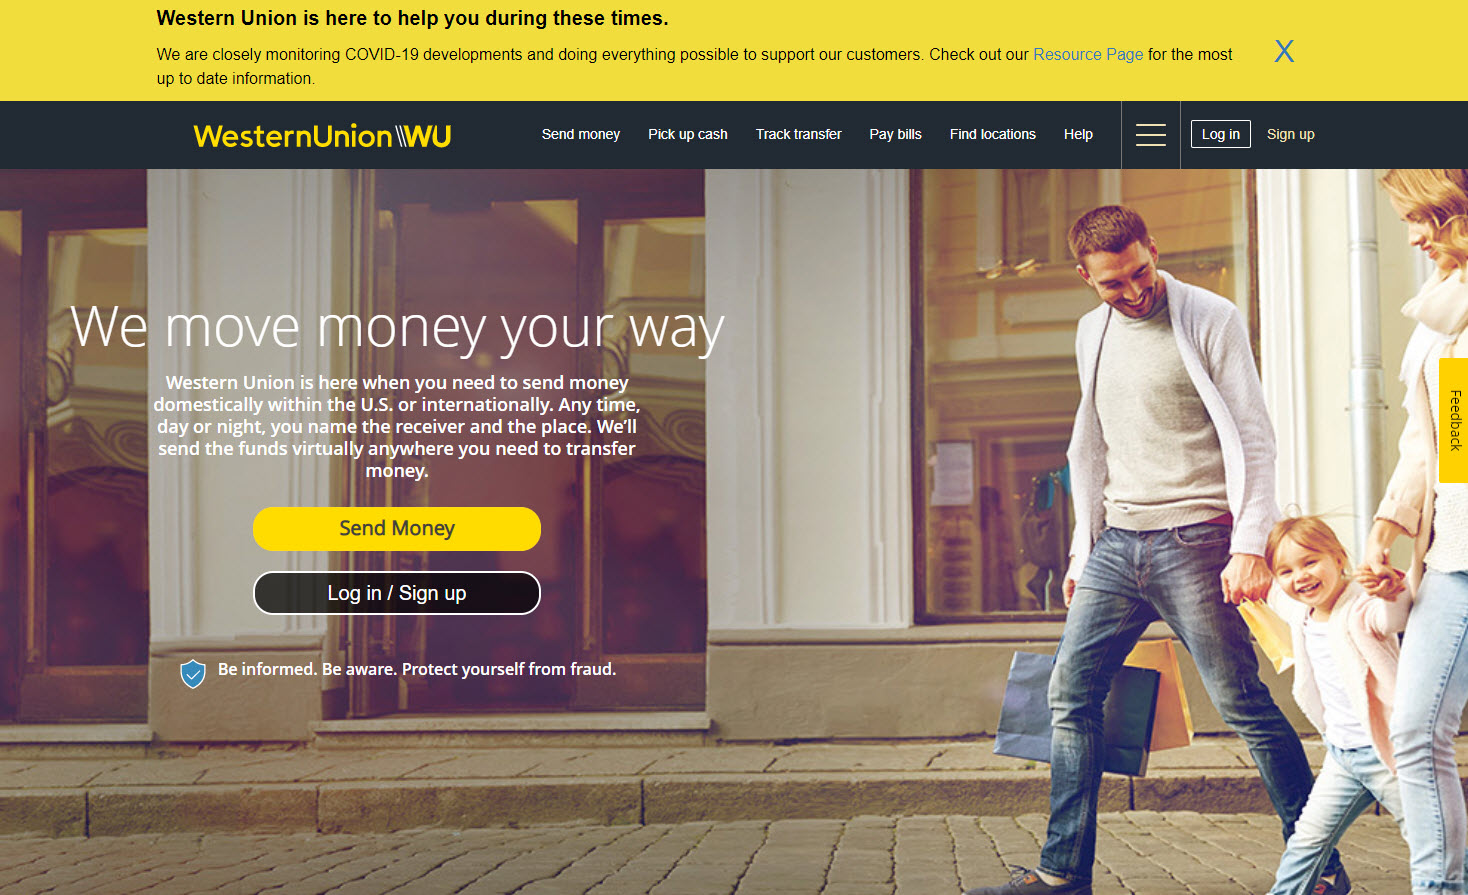
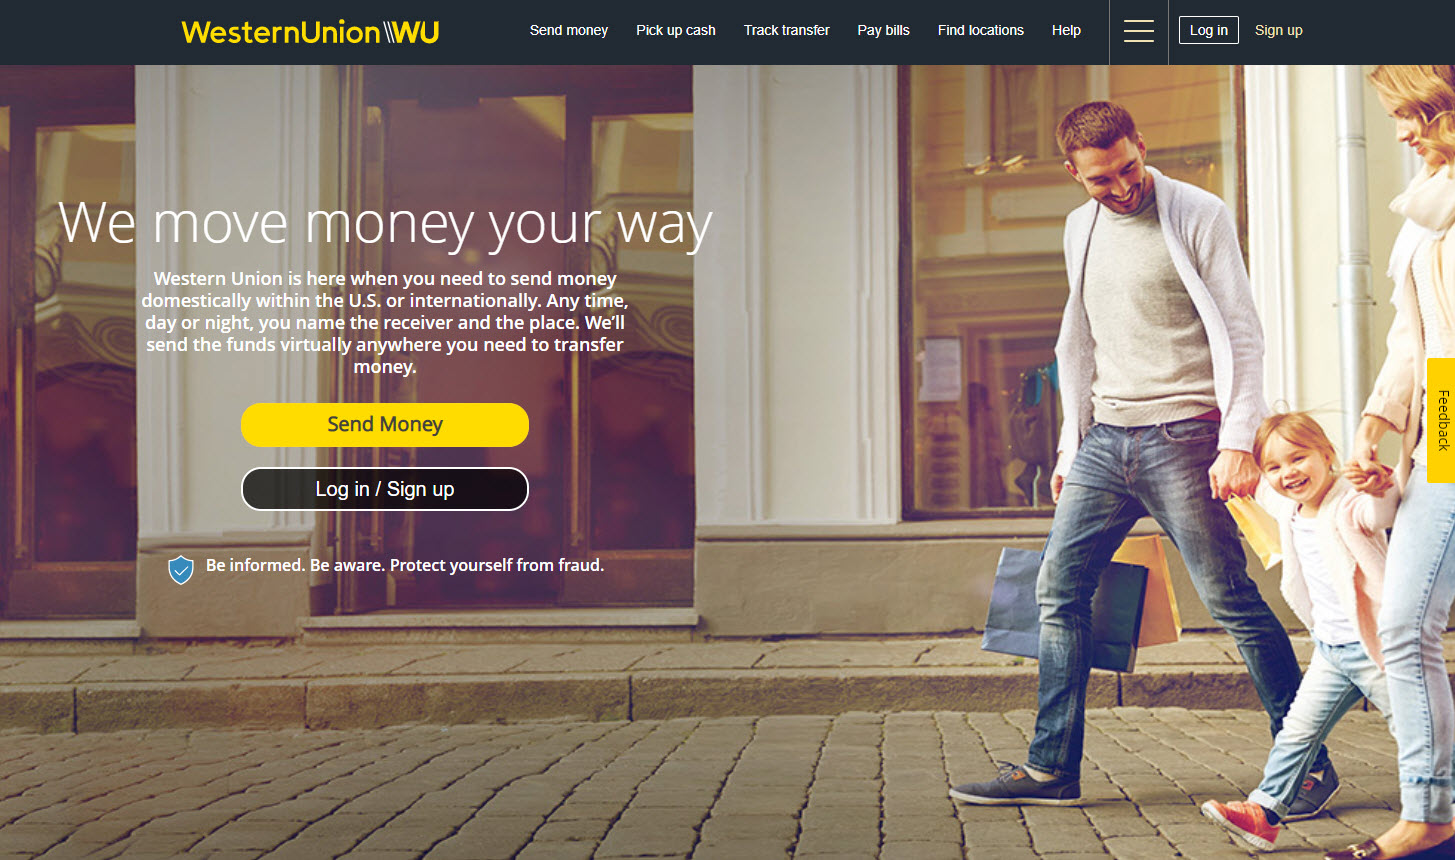
updates to WU

diff --git a/westernunion.htm b/westernunion.htm
@@ -1,6 +1,6 @@
 <!DOCTYPE html>
 <!-- saved from url=(0062)https://www.w3schools.com/w3css/tryw3css_templates_travel2.htm -->
-<html class="gr__w3schools_com"><head><meta http-equiv="Content-Type" content="text/html; charset=UTF-8"><title>WesternUnion Demo Site </title>
+<html class="gr__w3schools_com "><head><meta http-equiv="Content-Type" content="text/html; charset=UTF-8"><title>WesternUnion Demo Site </title>
 
 <meta name="viewport" content="width=device-width, initial-scale=1">
 <link rel="stylesheet" href="./Online_Travel_Site1_files/w3.css">
@@ -23,16 +23,16 @@ body,h1,h2,h3,h4,h5,h6 {font-family: "Raleway", Arial, Helvetica, sans-serif}
 
 <!-- Navigation Bar -->
 <div class="w3-bar w3-white w3-border-bottom w3-xlarge">
-  <a href="https://www.w3schools.com/w3css/tryw3css_templates_travel2.htm#" class="w3-bar-item w3-button w3-text-red w3-hover-red"><b><i class="fa fa-map-marker w3-margin-right"></i>WesternUnion & PagerDuty</b></a>
+  <a href="https://www.w3schools.com/w3css/tryw3css_templates_travel2.htm#" class="w3-bar-item w3-button w3-text-black w3-hover-red"><b><i class="fa fa-map-marker w3-margin-right"></i>WesternUnion & PagerDuty</b></a>
   <a href="https://www.w3schools.com/w3css/tryw3css_templates_travel2.htm#" class="w3-bar-item w3-button w3-right w3-hover-red w3-text-grey"><i class="fa fa-search"></i></a>
 </div>
 
 <!-- Header -->
 <header class="w3-display-container w3-content w3-hide-small" style="max-width:1700px">
-  <img class="w3-image" src="./images/westernunion.jpg" alt="Texas Capital" width="1700" height="700">
+  <img class="w3-image" src="./images/westernunion.jpg" alt="Western Union" width="1700" height="700">
   <div class="w3-display-middle" style="width:40% height:60%">
-    <div class="w3-bar w3-red">
-      <button class="w3-bar-item w3-button tablink w3-red" onclick="openLink(event, &#39;Flight&#39;);"><i class="fa fa-university w3-margin-right"></i>Send Money</button>
+    <div class="w3-bar w3-black">
+      <button class="w3-bar-item w3-button tablink w3-yellow" onclick="openLink(event, &#39;Flight&#39;);"><i class="fa fa-university w3-margin-right"></i>Send Money</button>
       <button class="w3-bar-item w3-button tablink" onclick="openLink(event, &#39;Hotel&#39;);"><i class="fa fa-bar-chart w3-margin-right"></i>Pick up cash</button>
       <button class="w3-bar-item w3-button tablink" onclick="openLink(event, &#39;Car&#39;);"><i class="fa fa-money w3-margin-right"></i>Pay bills</button>
     </div>
@@ -50,7 +50,7 @@ body,h1,h2,h3,h4,h5,h6 {font-family: "Raleway", Arial, Helvetica, sans-serif}
           <input class="w3-input w3-border" type="text" placeholder="password">
         </div>
       </div>
-      <p><button class="w3-button w3-blue" onclick="loginErrExample('Login');return(false);">Log In</button></p>
+      <p><button class="w3-button w3-yellow" onclick="loginErrExample('Login');return(false);">Log In</button></p>
     </div>
 
     <div id="Hotel" class="w3-container w3-white w3-padding-16 myLink" style="display: none;">
